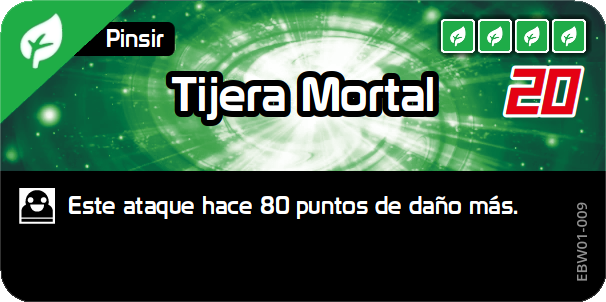
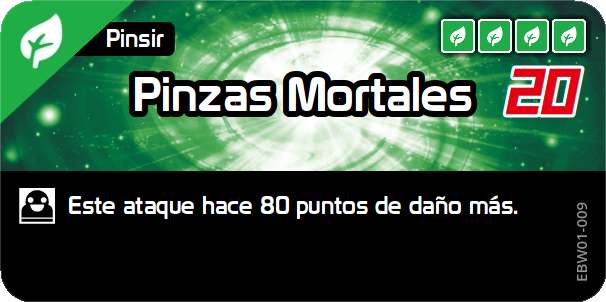
tijeras a pinzas

Changed region(s): [[0.2079, 0.2086, 0.802, 0.4172]]

diff --git a/database_es/text/wazacards/EB01/01-001_pinsir.md b/database_es/text/wazacards/EB01/01-001_pinsir.md
@@ -97,9 +97,9 @@
 
 [Demolición](https://bandai-hobby.net/site/pokemon/plakoro/images/products/eb01/03/img_wazacard05.webp)
 
-#### Carga Tijeras ?
+#### Carga Pinzas ?
 
-| Nombre      | Carga Tijeras ?                                                      |
+| Nombre      | Carga Pinzas ?                                                       |
 | ----------- | -------------------------------------------------------------------- |
 | Japonés     | チャージばさみ                                                       |
 | Tipo        | Planta                                                               |
@@ -114,7 +114,7 @@
 | Boca abajo  |                                                                      |
 | De lado     |                                                                      |
 
-[Carga Tijeras](https://bandai-hobby.net/site/pokemon/plakoro/images/products/eb01/03/img_wazacard06.webp)
+[Carga Pinzas](https://bandai-hobby.net/site/pokemon/plakoro/images/products/eb01/03/img_wazacard06.webp)
 
 #### Golpe Cólera ?
 
@@ -154,9 +154,9 @@
 
 [Carga Descuidada](https://bandai-hobby.net/site/pokemon/plakoro/images/products/eb01/03/img_wazacard08.webp)
 
-#### Tijera Mortal ?
+#### Pinzas Mortales ?
 
-| Nombre      | Tijera Mortal ?                         |
+| Nombre      | Pinzas Mortales ?                       |
 | ----------- | --------------------------------------- |
 | Japonés     | ひっさつばさみ                          |
 | Tipo        | Planta                                  |
@@ -171,7 +171,7 @@
 | Boca abajo  |                                         |
 | De lado     |                                         |
 
-[Tijera Mortal](https://bandai-hobby.net/site/pokemon/plakoro/images/products/eb01/03/img_wazacard09.webp)
+[Pinzas Mortales](https://bandai-hobby.net/site/pokemon/plakoro/images/products/eb01/03/img_wazacard09.webp)
 
 #### Sumisión
 

diff --git a/extras/original_names.md b/extras/original_names.md
@@ -13,9 +13,9 @@ Original translations for moves, due to being new Pokémon moves, or moves for o
 | EBW01-001  | しゅうちゅう         | Focus              | Concentrar           | Concentração          |
 | EBW01-002  | たえる               | Resist             | Resistir             | Resistência           |
 | EBW01-003  | つのでたたく         | _Horn Beat_        | Golpe Cuerno         | Pancada de Chifre     |
-| EBW01-006  | チャージばさみ       | _Pincers Charge_   | _Carga Tijeras_      | Investida de Pinças   |
+| EBW01-006  | チャージばさみ       | _Pincers Charge_   | _Carga Pinzas_       | Investida de Pinças   |
 | EBW01-007  | ぎゃくじょうスイング | Berserk Swing      | Golpe Cólera         | Giro Enfurecido       |
-| EBW01-009  | ひっさつばさみ       | _Deadly Pincers_   | Tijera Mortal        | Pinça Fatal           |
+| EBW01-009  | ひっさつばさみ       | _Deadly Pincers_   | Pinzas Mortales      | Pinça Fatal           |
 | EBW01-019  | ウイングラッシュ     | Wing Rush          | Ala Rápida           | Investida Alada       |
 | EBW01-022  | いてつくやいば       | Freezing Blade     | Hoja Heladora        | Lâmina Congelante     |
 | EBW01-023  | ブリザードストーム   | Blizzard Storm     | _Tormenta Ventisca_  | Tempestade de Nevasca |
